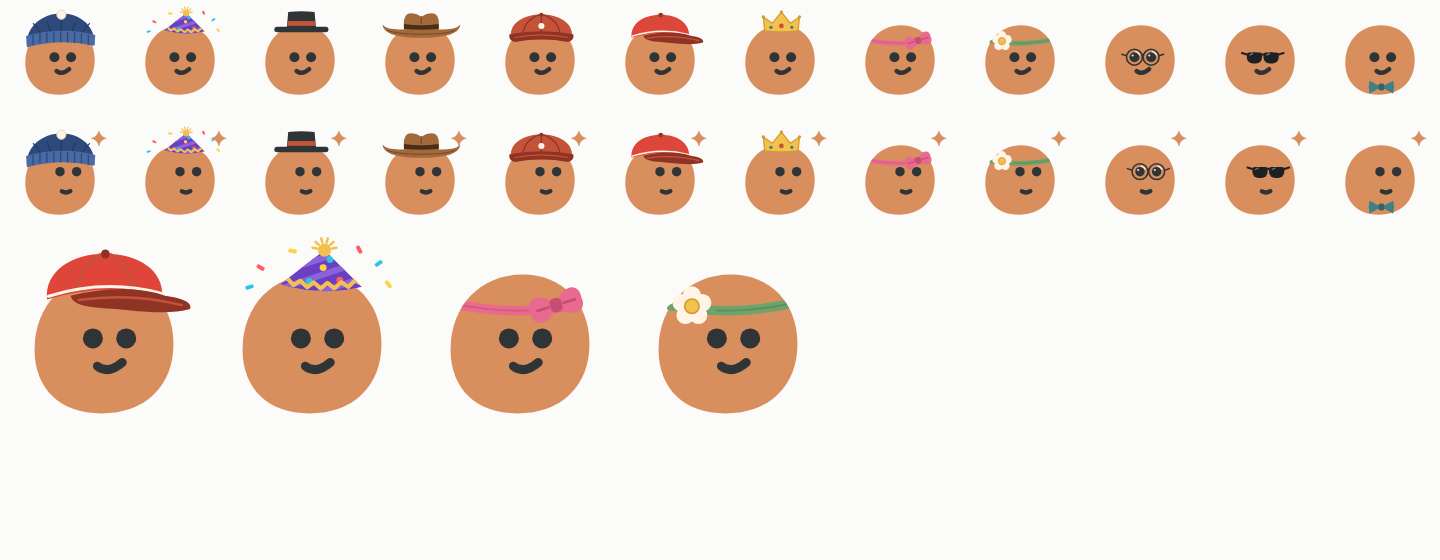
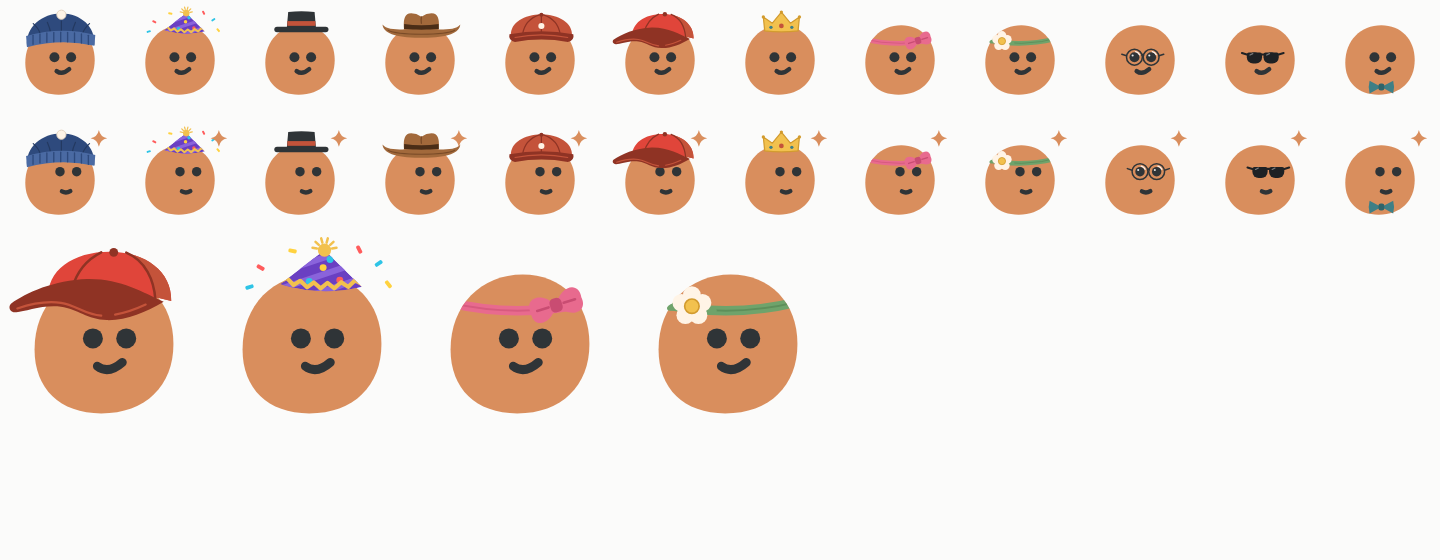
feat(porty): gorrita de tres cuartos con visera larga y curva (según referencia)
Claude-Session: https://claude.ai/code/session_014X6FgJPz2fjdo9EZLy7TFG

Changed region(s): [[0.0, 0.425, 0.125, 0.5768], [0.4062, 0.2429, 0.5, 0.3036], [0.4062, 0.0304, 0.5, 0.0911]]

diff --git a/lib/features/assistant/view/widgets/porty_accessory_painter.dart b/lib/features/assistant/view/widgets/porty_accessory_painter.dart
@@ -329,56 +329,74 @@ abstract final class PortyAccessoryPainter {
         ..cubicTo(7, 18, 18, 7, 33, 7)
         ..close();
 
-  /// Gorrita con visera de costado: copa redonda en gajos, botón arriba,
-  /// visera hacia la derecha y una costura clara.
+  /// Gorrita de tres cuartos (como una gorra de béisbol dibujada): copa
+  /// en gajos girada un poco a la derecha y una visera larga y curva que
+  /// sale hacia adelante a la izquierda, con el borde de abajo en "S".
   static void _peakedCap(Canvas canvas) {
     final crown =
         Path()
-          ..moveTo(11.5, 16)
-          ..cubicTo(10.5, 6, 20, -0.5, 32.5, -0.5)
-          ..cubicTo(44.5, -0.5, 53.5, 5.5, 53, 15)
-          ..quadraticBezierTo(32.5, 9.5, 11.5, 16)
+          ..moveTo(12, 16)
+          ..cubicTo(11, 5.5, 21, -1.2, 34, -1.2)
+          ..cubicTo(47, -1.2, 56.5, 6, 56.2, 16.5)
+          ..quadraticBezierTo(40, 12, 12, 16)
           ..close();
     canvas.drawPath(crown, _fill(_brightRed));
-    final seam = _stroke(_red, 0.9);
+    // Gajo lateral (derecha) un tono más oscuro, como en una gorra real.
+    canvas
+      ..save()
+      ..clipPath(crown)
+      ..drawPath(
+        Path()
+          ..moveTo(40, -2)
+          ..cubicTo(47, 2, 50, 9, 50.5, 20)
+          ..lineTo(60, 20)
+          ..lineTo(60, -2)
+          ..close(),
+        _fill(_red),
+      )
+      ..restore();
+    final seam = _stroke(_redDark, 0.9);
     canvas
       ..drawPath(
         Path()
-          ..moveTo(30.5, -0.3)
-          ..quadraticBezierTo(23, 4.5, 22.5, 12.8),
+          ..moveTo(40, -0.9)
+          ..cubicTo(47, 2, 50, 9, 50.5, 16),
         seam,
       )
       ..drawPath(
         Path()
-          ..moveTo(34.5, -0.3)
-          ..quadraticBezierTo(41.5, 4.5, 42.5, 12.2),
+          ..moveTo(31, -1)
+          ..quadraticBezierTo(23, 3, 20.5, 12),
         seam,
       )
-      // Ribete claro en el borde.
-      ..drawPath(
-        Path()
-          ..moveTo(12, 14.8)
-          ..quadraticBezierTo(32.5, 8.4, 52.8, 13.8),
-        _stroke(_cream, 1.1),
-      )
-      ..drawCircle(const Offset(32.5, -0.4), 1.6, _fill(_redDark));
-    // Visera de tres cuartos: ancha y curva, apoyada en el borde de la copa
-    // por delante de la frente y corrida hacia la derecha.
+      ..drawCircle(const Offset(35.5, -1), 1.6, _fill(_redDark));
+    // Visera: su borde de arriba sube por el frente de la copa y baja a la
+    // derecha; la punta sale a la izquierda, más allá de la cabeza.
     final visor =
         Path()
-          ..moveTo(20, 14.6)
-          ..quadraticBezierTo(40, 9.8, 54, 14.6)
-          ..cubicTo(60, 15.4, 64, 17, 63, 19.4)
-          ..cubicTo(56, 21.6, 44, 20.2, 36, 19.4)
-          ..cubicTo(28, 18.8, 21, 18.6, 20, 14.6)
+          ..moveTo(-1.5, 17.5)
+          ..cubicTo(4, 13.5, 14, 9, 26, 8.6)
+          ..cubicTo(38, 8.4, 46, 13.4, 53.5, 16.8)
+          ..cubicTo(47, 20.6, 40, 23.6, 33, 23.4)
+          ..cubicTo(26, 23.2, 22.5, 19.4, 16.5, 18.6)
+          ..cubicTo(10, 17.8, 3.5, 20.4, 0.5, 20.6)
+          ..cubicTo(-2, 20.8, -2.6, 18.6, -1.5, 17.5)
           ..close();
     canvas
       ..drawPath(visor, _fill(_redDark))
+      // Pespuntes, paralelos al borde de abajo.
       ..drawPath(
         Path()
-          ..moveTo(23, 16.2)
-          ..quadraticBezierTo(42, 13.4, 60, 18),
-        _stroke(_red, 0.9),
+          ..moveTo(0.8, 19.2)
+          ..cubicTo(5, 17.8, 11, 16.4, 16.5, 17.2)
+          ..cubicTo(22, 18, 25, 21.4, 31, 21.8),
+        _stroke(_red, 0.8),
+      )
+      ..drawPath(
+        Path()
+          ..moveTo(36, 21.4)
+          ..cubicTo(40, 20.8, 44, 19.2, 47, 17.8),
+        _stroke(_red, 0.8),
       );
   }
 
